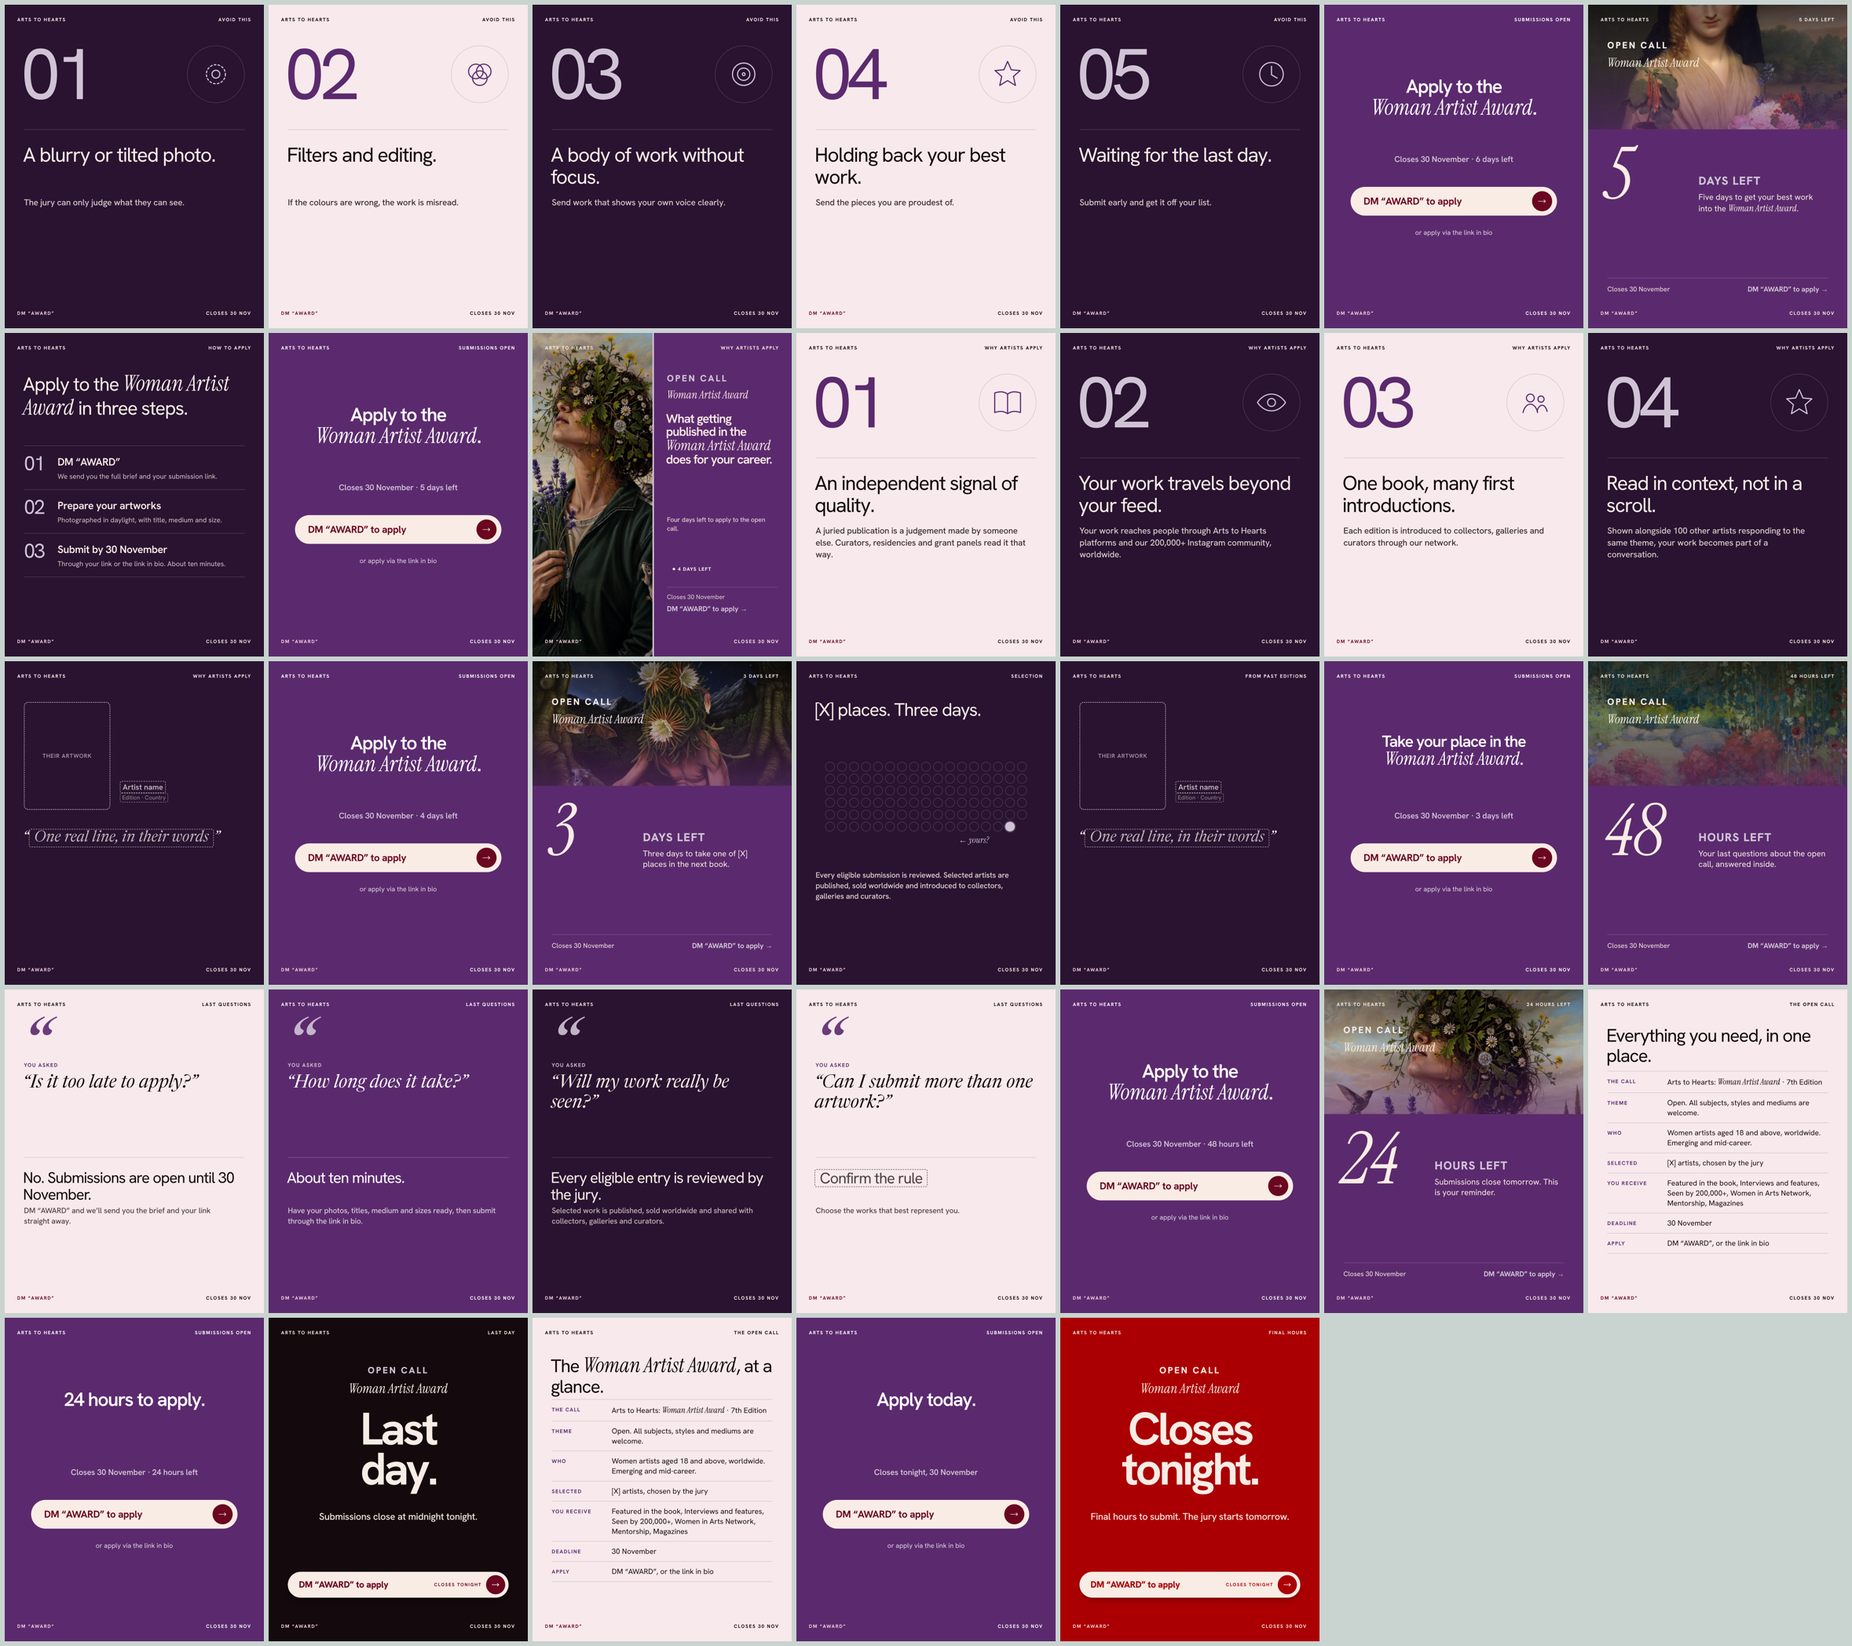
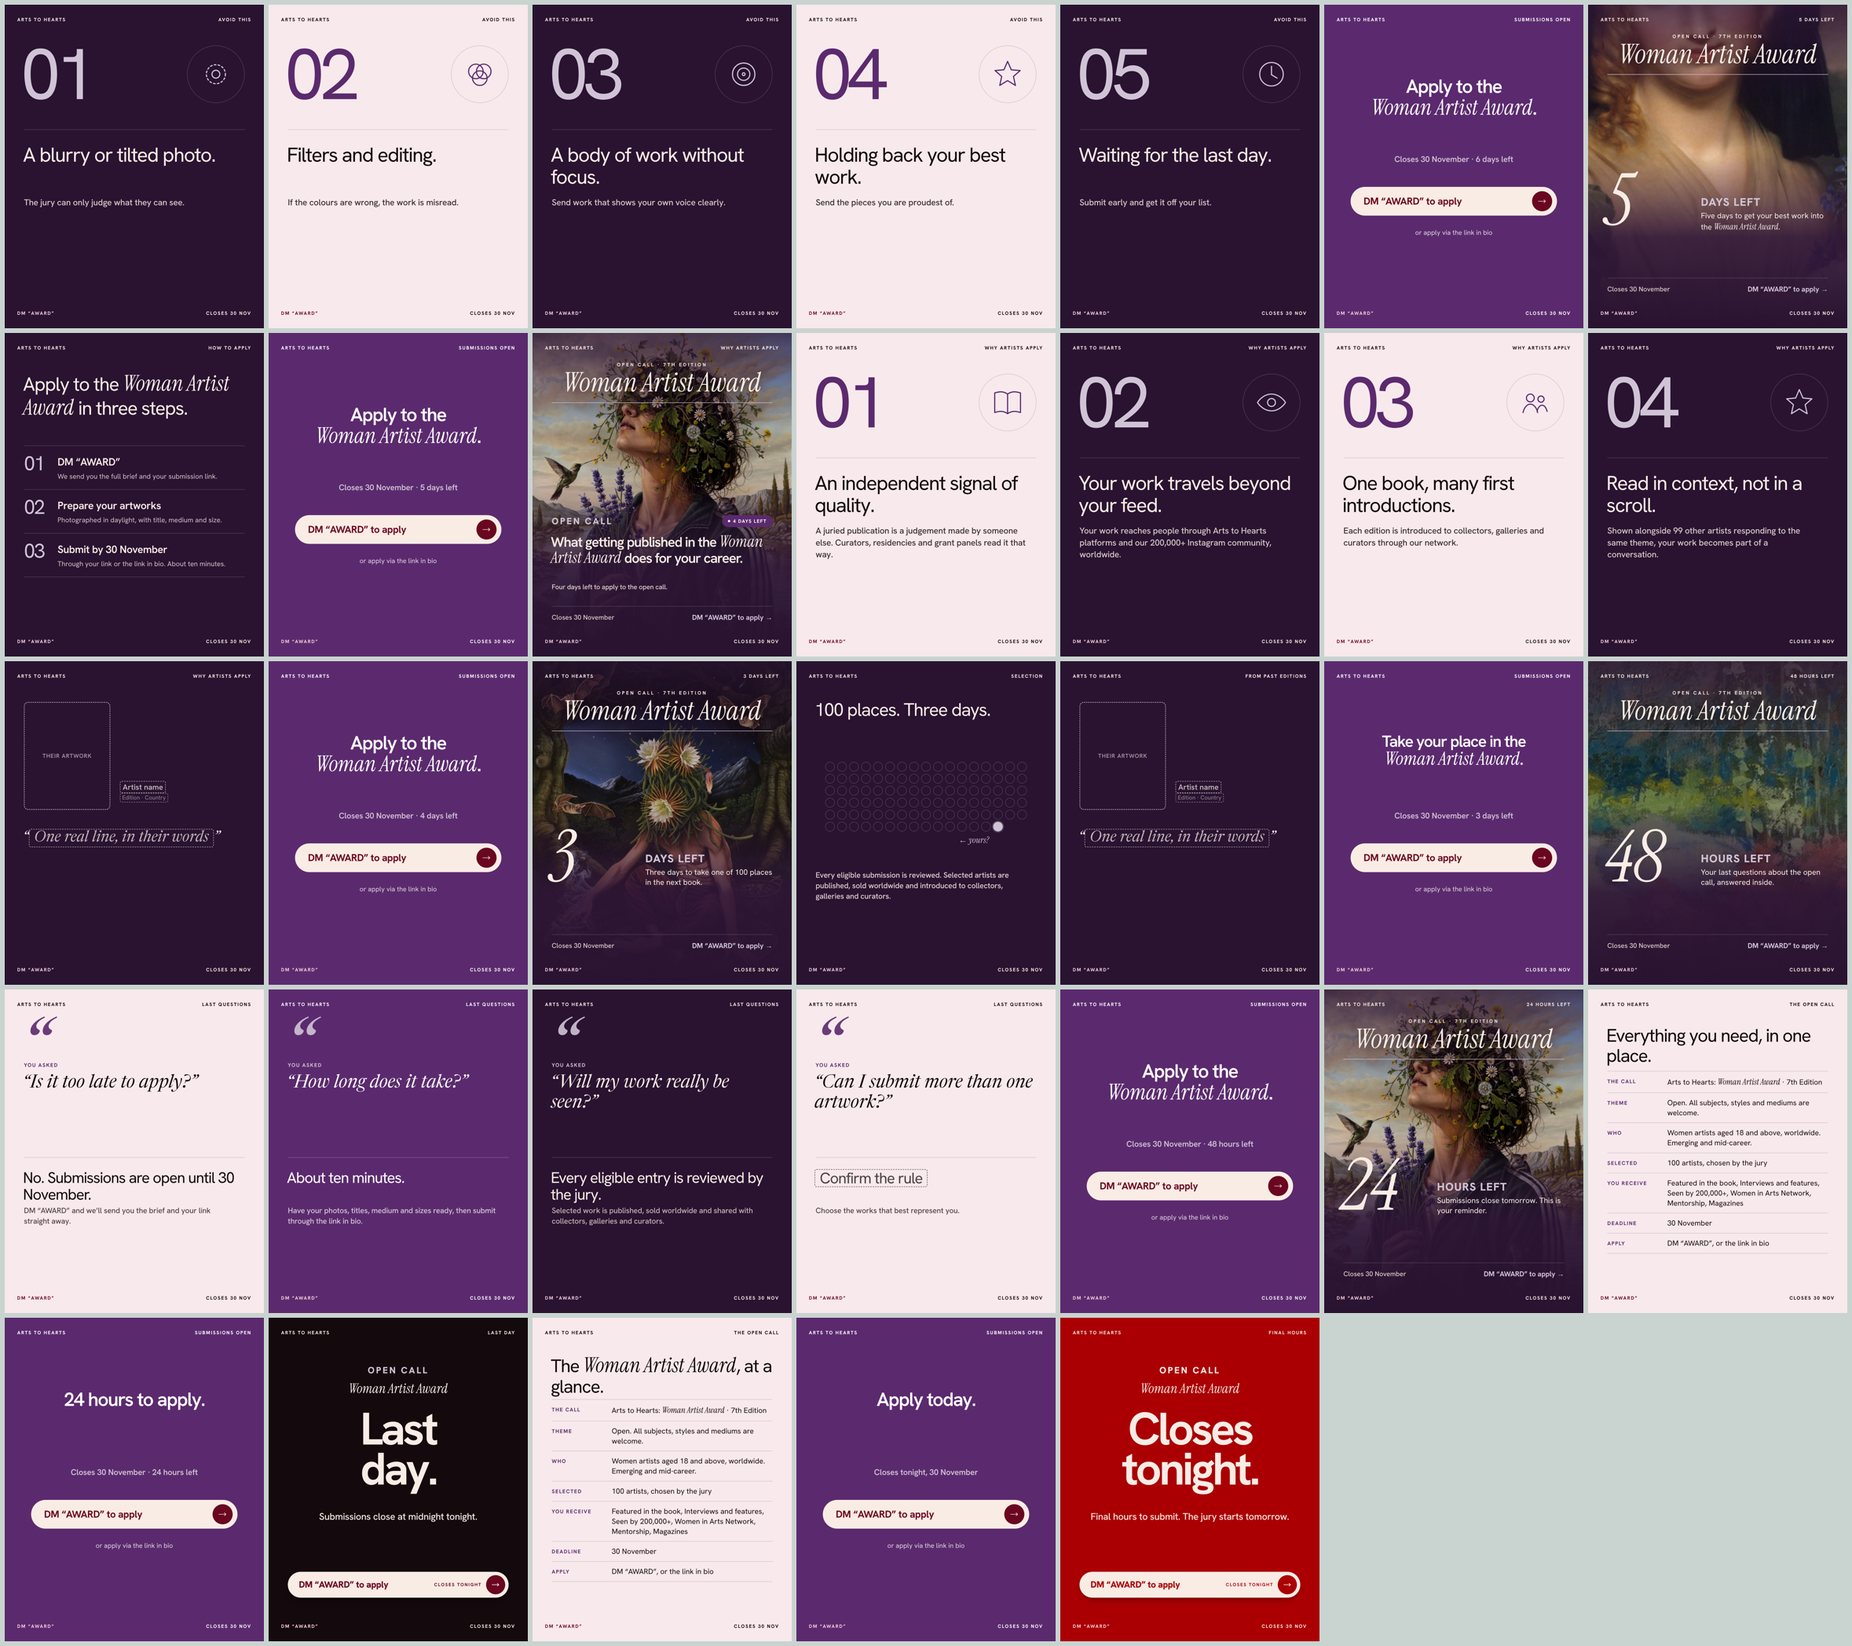
Woman Artist Award: full-image magazine covers and countdowns, 100 selected artists
Claude-Session: https://claude.ai/code/session_01Bc4gkdxg6i3YRuybqzVB3k

Changed region(s): [[0.712, 0.4031, 1.0, 0.8063], [0.2786, 0.1861, 0.5263, 0.6202], [0.8359, 0.0, 1.0, 0.2171]]

diff --git a/design/campaigns/open-calls/month.js b/design/campaigns/open-calls/month.js
@@ -329,32 +329,32 @@ const G1 = {...G};
 G.cream = () => isEd() ? ({bg:ED_PAPER, fg:INK, acc:state.colour, dm:BURG, line:'rgba(20,9,12,.16)'}) : G1.cream();
 G.ink   = () => isEd() ? ({bg:mix(state.colour, '#000000', .55), fg:CREAM, acc:tint(state.colour), dm:PEONY, line:'rgba(249,236,229,.2)'}) : G1.ink();
 const ED = {
+  // magazine cover: full-bleed portrait, masthead across the top, cover lines at the bottom
+  mast(){ const acc = tint(state.colour);
+    return `<p class="a c cn" style="left:0;right:0;top:118px;color:${CREAM};font-size:20px;letter-spacing:.3em">Open call · ${esc(state.editionLabel || '')}</p>
+      <p class="a c scr" style="left:40px;right:40px;top:150px;font-size:${String(state.name).length > 18 ? 96 : 112}px;line-height:1;white-space:nowrap;color:${CREAM};text-shadow:0 4px 30px rgba(0,0,0,.35)">${esc(state.name)}</p>
+      <div class="a" style="left:80px;right:80px;top:290px;border-top:2px solid ${acc}"></div>`; },
+  shade(){ return `<div class="a" style="inset:0;background:linear-gradient(180deg,${rgba(mix(state.colour,'#000000',.5),.75)} 0%,rgba(0,0,0,.05) 30%,rgba(0,0,0,0) 45%,${rgba(mix(state.colour,'#000000',.5),.9)} 72%,${mix(state.colour,'#000000',.55)} 100%)"></div>`; },
   hook(o){ const acc = tint(state.colour);
-    return {bg:state.colour, html:`${imgDiv(o.img || o.art || ART[0], 'left:0;top:0;bottom:0;width:500px', o.pos || o.artPos || 'center 25%')}
-      <div class="a" style="left:500px;top:0;bottom:0;width:6px;background:${acc}"></div>
-      ${corners(CREAM, PEONY, o.tr)}
-      <div class="a" style="left:560px;right:60px;top:170px">${OPENCALL(acc)}</div>
-      <p class="a scr" style="left:560px;right:60px;top:224px;font-size:46px;color:${CREAM}">${esc(state.name)}</p>
-      <p class="a H" style="left:556px;right:60px;top:330px;font-size:${Math.round((o.size||80)*.72)}px;line-height:1.04;color:${CREAM}">${o.head}</p>
-      ${o.sub ? `<p class="a sub" style="left:560px;right:60px;top:${o.subTop||760}px;font-size:27px;color:${CREAM};opacity:.85">${o.sub}</p>` : ''}
-      <div class="a" style="left:560px;top:960px">${timer(false)}</div>
-      <div class="a" style="left:560px;right:60px;top:1060px;padding-top:22px;border-top:1.5px solid rgba(255,255,255,.35)">
-        <p style="font-size:26px;color:${CREAM};opacity:.85">Closes ${dateLong()}</p>
-        <p style="font-size:30px;font-weight:700;letter-spacing:-.01em;color:${acc};margin-top:8px">${VERB} “${KW()}” to apply&nbsp;&rarr;</p></div>`};
+    return {bg:INK, html:`${imgDiv(o.img || o.art || ART[0], 'inset:0', o.pos || o.artPos || 'center 22%')}${ED.shade()}
+      ${corners(CREAM, PEONY, o.tr)}${ED.mast()}
+      <div class="a" style="left:80px;right:80px;top:${o.top || 760}px;display:flex;justify-content:space-between;align-items:center">${OPENCALL(acc)}${timer(false)}</div>
+      <p class="a H" style="left:76px;right:80px;top:${(o.top || 760) + 76}px;font-size:${Math.round((o.size||80)*.8)}px;color:${CREAM}">${o.head}</p>
+      ${o.sub ? `<p class="a sub" style="left:80px;right:150px;top:${o.subTop || 1040}px;font-size:28px;color:${CREAM};opacity:.9">${o.sub}</p>` : ''}
+      ${coverCTA(1140, CREAM, acc)}`};
   },
-  count(o){ const acc = tint(state.colour); const chilli = o.tone === 'chilli'; const bg = chilli ? '#AA0003' : state.colour;
+  count(o){ const acc = tint(state.colour); const chilli = o.tone === 'chilli';
     const big = String(o.big), size = big.length <= 2 ? 300 : big.length <= 8 ? 140 : 110;
-    return {bg, html:`${imgDiv(o.img || ART[0], 'left:0;right:0;top:0;height:520px', o.pos || 'center 25%')}
-      <div class="a" style="left:0;right:0;top:0;height:520px;background:linear-gradient(180deg,rgba(0,0,0,.45),rgba(0,0,0,0) 45%,${rgba(bg,.6)})"></div>
-      ${corners(CREAM, PEONY, o.tr || leftLabel())}
-      <div class="a" style="left:80px;top:150px">${OPENCALL(CREAM)}</div>
-      <p class="a scr" style="left:80px;top:204px;font-size:52px;color:${CREAM}">${esc(state.name)}</p>
-      <p class="a scr" style="left:70px;top:${big.length <= 2 ? 580 : 600}px;font-size:${size}px;line-height:.85;color:${CREAM}">${big}</p>
-      <p class="a" style="left:${big.length <= 2 ? 460 : 80}px;top:${big.length <= 2 ? 700 : 760}px;font-size:48px;font-weight:800;letter-spacing:.06em;text-transform:uppercase;color:${chilli ? CREAM : acc}">${esc(o.unit)}</p>
-      <p class="a" style="left:${big.length <= 2 ? 460 : 80}px;right:80px;top:${big.length <= 2 ? 780 : 840}px;font-size:34px;line-height:1.3;color:${CREAM}">${o.info || `to be published in ${esc(state.bookName || 'the book')}.`}</p>
+    return {bg:INK, html:`${imgDiv(o.img || ART[0], 'inset:0', o.pos || 'center 22%')}${ED.shade()}
+      ${chilli ? '<div class="a" style="inset:0;background:rgba(170,0,3,.55)"></div>' : ''}
+      ${corners(CREAM, PEONY, o.tr || leftLabel())}${ED.mast()}
+      <p class="a scr" style="left:70px;top:${big.length <= 2 ? 690 : 760}px;font-size:${size}px;line-height:.85;color:${CREAM}">${big}</p>
+      <p class="a" style="left:${big.length <= 2 ? 470 : 80}px;top:${big.length <= 2 ? 790 : 900}px;font-size:46px;font-weight:800;letter-spacing:.06em;text-transform:uppercase;color:${chilli ? CREAM : acc}">${esc(o.unit)}</p>
+      <p class="a" style="left:${big.length <= 2 ? 470 : 80}px;right:80px;top:${big.length <= 2 ? 860 : 970}px;font-size:32px;line-height:1.3;color:${CREAM}">${o.info || `to be published in ${esc(state.bookName || 'the book')}.`}</p>
       ${coverCTA(1140, CREAM, chilli ? CREAM : acc)}`};
   },
 };
+
 const T0 = {...T};
 T.hook = o => isAward() ? AW.hook(o) : isEd() ? ED.hook(o) : T0.hook(o);
 T.count = o => isAward() ? AW.count(o) : isEd() ? ED.count(o) : T0.count(o);
@@ -447,7 +447,7 @@ const closeLn = () => `Submissions close ${dl().getDate()} ${MONTHS_L[dl().getMo
 const N = () => state.name, S = () => state.series, SEL = () => state.selected;
 
 function monthPosts(){ const name = GE(), sel = esc(state.selected); return [
- {left:30, title:'Launch', kind:'Carousel', slides:() => { const s = launch(); if (isAward() || isEd()) s[0] = {...(isEd() ? ED : AW).hook({img:state.images.imgCover, tr:esc(state.series), head:`${esc(state.headline || 'Call for artists')}<br>${GE()}`, size:(isEd() ? 82 : 120), subTop:(isEd() ? 820 : undefined), sub:esc(state.coverLine)}), title:'cover'}; return s; }, caption:() => caption(), pin:() => pinned()},
+ {left:30, title:'Launch', kind:'Carousel', slides:() => { const s = launch(); if (isAward() || isEd()) s[0] = {...(isEd() ? ED : AW).hook({img:state.images.imgCover, tr:esc(state.series), head: isEd() ? esc(state.headline || 'Call for artists') : `${esc(state.headline || 'Call for artists')}<br>${GE()}`, size: isEd() ? 112 : 120, sub:esc(state.coverLine)}), title:'cover'}; return s; }, caption:() => caption(), pin:() => pinned()},
 
  {left:28, title:'What you can submit', kind:'Carousel · theme', slides:() => [
    T.hook({img:EX.bloom, tr:'The theme', head:`What can you submit to the ${name}?`, sub:`Five kinds of ${TW()} the jury wants to see. ${sel} will be published.`}),

diff --git a/site/post-studio/month.js b/site/post-studio/month.js
@@ -329,32 +329,32 @@ const G1 = {...G};
 G.cream = () => isEd() ? ({bg:ED_PAPER, fg:INK, acc:state.colour, dm:BURG, line:'rgba(20,9,12,.16)'}) : G1.cream();
 G.ink   = () => isEd() ? ({bg:mix(state.colour, '#000000', .55), fg:CREAM, acc:tint(state.colour), dm:PEONY, line:'rgba(249,236,229,.2)'}) : G1.ink();
 const ED = {
+  // magazine cover: full-bleed portrait, masthead across the top, cover lines at the bottom
+  mast(){ const acc = tint(state.colour);
+    return `<p class="a c cn" style="left:0;right:0;top:118px;color:${CREAM};font-size:20px;letter-spacing:.3em">Open call · ${esc(state.editionLabel || '')}</p>
+      <p class="a c scr" style="left:40px;right:40px;top:150px;font-size:${String(state.name).length > 18 ? 96 : 112}px;line-height:1;white-space:nowrap;color:${CREAM};text-shadow:0 4px 30px rgba(0,0,0,.35)">${esc(state.name)}</p>
+      <div class="a" style="left:80px;right:80px;top:290px;border-top:2px solid ${acc}"></div>`; },
+  shade(){ return `<div class="a" style="inset:0;background:linear-gradient(180deg,${rgba(mix(state.colour,'#000000',.5),.75)} 0%,rgba(0,0,0,.05) 30%,rgba(0,0,0,0) 45%,${rgba(mix(state.colour,'#000000',.5),.9)} 72%,${mix(state.colour,'#000000',.55)} 100%)"></div>`; },
   hook(o){ const acc = tint(state.colour);
-    return {bg:state.colour, html:`${imgDiv(o.img || o.art || ART[0], 'left:0;top:0;bottom:0;width:500px', o.pos || o.artPos || 'center 25%')}
-      <div class="a" style="left:500px;top:0;bottom:0;width:6px;background:${acc}"></div>
-      ${corners(CREAM, PEONY, o.tr)}
-      <div class="a" style="left:560px;right:60px;top:170px">${OPENCALL(acc)}</div>
-      <p class="a scr" style="left:560px;right:60px;top:224px;font-size:46px;color:${CREAM}">${esc(state.name)}</p>
-      <p class="a H" style="left:556px;right:60px;top:330px;font-size:${Math.round((o.size||80)*.72)}px;line-height:1.04;color:${CREAM}">${o.head}</p>
-      ${o.sub ? `<p class="a sub" style="left:560px;right:60px;top:${o.subTop||760}px;font-size:27px;color:${CREAM};opacity:.85">${o.sub}</p>` : ''}
-      <div class="a" style="left:560px;top:960px">${timer(false)}</div>
-      <div class="a" style="left:560px;right:60px;top:1060px;padding-top:22px;border-top:1.5px solid rgba(255,255,255,.35)">
-        <p style="font-size:26px;color:${CREAM};opacity:.85">Closes ${dateLong()}</p>
-        <p style="font-size:30px;font-weight:700;letter-spacing:-.01em;color:${acc};margin-top:8px">${VERB} “${KW()}” to apply&nbsp;&rarr;</p></div>`};
+    return {bg:INK, html:`${imgDiv(o.img || o.art || ART[0], 'inset:0', o.pos || o.artPos || 'center 22%')}${ED.shade()}
+      ${corners(CREAM, PEONY, o.tr)}${ED.mast()}
+      <div class="a" style="left:80px;right:80px;top:${o.top || 760}px;display:flex;justify-content:space-between;align-items:center">${OPENCALL(acc)}${timer(false)}</div>
+      <p class="a H" style="left:76px;right:80px;top:${(o.top || 760) + 76}px;font-size:${Math.round((o.size||80)*.8)}px;color:${CREAM}">${o.head}</p>
+      ${o.sub ? `<p class="a sub" style="left:80px;right:150px;top:${o.subTop || 1040}px;font-size:28px;color:${CREAM};opacity:.9">${o.sub}</p>` : ''}
+      ${coverCTA(1140, CREAM, acc)}`};
   },
-  count(o){ const acc = tint(state.colour); const chilli = o.tone === 'chilli'; const bg = chilli ? '#AA0003' : state.colour;
+  count(o){ const acc = tint(state.colour); const chilli = o.tone === 'chilli';
     const big = String(o.big), size = big.length <= 2 ? 300 : big.length <= 8 ? 140 : 110;
-    return {bg, html:`${imgDiv(o.img || ART[0], 'left:0;right:0;top:0;height:520px', o.pos || 'center 25%')}
-      <div class="a" style="left:0;right:0;top:0;height:520px;background:linear-gradient(180deg,rgba(0,0,0,.45),rgba(0,0,0,0) 45%,${rgba(bg,.6)})"></div>
-      ${corners(CREAM, PEONY, o.tr || leftLabel())}
-      <div class="a" style="left:80px;top:150px">${OPENCALL(CREAM)}</div>
-      <p class="a scr" style="left:80px;top:204px;font-size:52px;color:${CREAM}">${esc(state.name)}</p>
-      <p class="a scr" style="left:70px;top:${big.length <= 2 ? 580 : 600}px;font-size:${size}px;line-height:.85;color:${CREAM}">${big}</p>
-      <p class="a" style="left:${big.length <= 2 ? 460 : 80}px;top:${big.length <= 2 ? 700 : 760}px;font-size:48px;font-weight:800;letter-spacing:.06em;text-transform:uppercase;color:${chilli ? CREAM : acc}">${esc(o.unit)}</p>
-      <p class="a" style="left:${big.length <= 2 ? 460 : 80}px;right:80px;top:${big.length <= 2 ? 780 : 840}px;font-size:34px;line-height:1.3;color:${CREAM}">${o.info || `to be published in ${esc(state.bookName || 'the book')}.`}</p>
+    return {bg:INK, html:`${imgDiv(o.img || ART[0], 'inset:0', o.pos || 'center 22%')}${ED.shade()}
+      ${chilli ? '<div class="a" style="inset:0;background:rgba(170,0,3,.55)"></div>' : ''}
+      ${corners(CREAM, PEONY, o.tr || leftLabel())}${ED.mast()}
+      <p class="a scr" style="left:70px;top:${big.length <= 2 ? 690 : 760}px;font-size:${size}px;line-height:.85;color:${CREAM}">${big}</p>
+      <p class="a" style="left:${big.length <= 2 ? 470 : 80}px;top:${big.length <= 2 ? 790 : 900}px;font-size:46px;font-weight:800;letter-spacing:.06em;text-transform:uppercase;color:${chilli ? CREAM : acc}">${esc(o.unit)}</p>
+      <p class="a" style="left:${big.length <= 2 ? 470 : 80}px;right:80px;top:${big.length <= 2 ? 860 : 970}px;font-size:32px;line-height:1.3;color:${CREAM}">${o.info || `to be published in ${esc(state.bookName || 'the book')}.`}</p>
       ${coverCTA(1140, CREAM, chilli ? CREAM : acc)}`};
   },
 };
+
 const T0 = {...T};
 T.hook = o => isAward() ? AW.hook(o) : isEd() ? ED.hook(o) : T0.hook(o);
 T.count = o => isAward() ? AW.count(o) : isEd() ? ED.count(o) : T0.count(o);
@@ -447,7 +447,7 @@ const closeLn = () => `Submissions close ${dl().getDate()} ${MONTHS_L[dl().getMo
 const N = () => state.name, S = () => state.series, SEL = () => state.selected;
 
 function monthPosts(){ const name = GE(), sel = esc(state.selected); return [
- {left:30, title:'Launch', kind:'Carousel', slides:() => { const s = launch(); if (isAward() || isEd()) s[0] = {...(isEd() ? ED : AW).hook({img:state.images.imgCover, tr:esc(state.series), head:`${esc(state.headline || 'Call for artists')}<br>${GE()}`, size:(isEd() ? 82 : 120), subTop:(isEd() ? 820 : undefined), sub:esc(state.coverLine)}), title:'cover'}; return s; }, caption:() => caption(), pin:() => pinned()},
+ {left:30, title:'Launch', kind:'Carousel', slides:() => { const s = launch(); if (isAward() || isEd()) s[0] = {...(isEd() ? ED : AW).hook({img:state.images.imgCover, tr:esc(state.series), head: isEd() ? esc(state.headline || 'Call for artists') : `${esc(state.headline || 'Call for artists')}<br>${GE()}`, size: isEd() ? 112 : 120, sub:esc(state.coverLine)}), title:'cover'}; return s; }, caption:() => caption(), pin:() => pinned()},
 
  {left:28, title:'What you can submit', kind:'Carousel · theme', slides:() => [
    T.hook({img:EX.bloom, tr:'The theme', head:`What can you submit to the ${name}?`, sub:`Five kinds of ${TW()} the jury wants to see. ${sel} will be published.`}),

diff --git a/design/campaigns/open-calls/post-studio.html b/design/campaigns/open-calls/post-studio.html
@@ -238,7 +238,7 @@ const PRESETS = {
     commentFrom:'2026-12-08', images:{imgCover:'art/flower-portrait.jpg', imgTheme:'art/ref-palms.jpg'},
   },
   'Woman Artist Award 2026': {
-    style:'editorial', series:'Arts to Hearts', edition:'7th', editionLabel:'7th Edition', name:'Woman Artist Award', keyword:'AWARD', deadline:'2026-11-30', selected:'[X]',
+    style:'editorial', series:'Arts to Hearts', edition:'7th', editionLabel:'7th Edition', name:'Woman Artist Award', keyword:'AWARD', deadline:'2026-11-30', selected:'100',
     headline:'Calling all women artists', coverLine:'Selected artists are featured in Women Artists on the Rise, Edition 5.', colour:'#5B2A6E',
     editions:'35+', seriesNoun:'books', published:'10,000+',
     quote:'Your work deserves to be seen, recognized, and celebrated.',

diff --git a/site/post-studio/index.html b/site/post-studio/index.html
@@ -241,7 +241,7 @@ const PRESETS = {
     commentFrom:'2026-12-08', images:{imgCover:'art/flower-portrait.jpg', imgTheme:'art/ref-palms.jpg'},
   },
   'Woman Artist Award 2026': {
-    style:'editorial', series:'Arts to Hearts', edition:'7th', editionLabel:'7th Edition', name:'Woman Artist Award', keyword:'AWARD', deadline:'2026-11-30', selected:'[X]',
+    style:'editorial', series:'Arts to Hearts', edition:'7th', editionLabel:'7th Edition', name:'Woman Artist Award', keyword:'AWARD', deadline:'2026-11-30', selected:'100',
     headline:'Calling all women artists', coverLine:'Selected artists are featured in Women Artists on the Rise, Edition 5.', colour:'#5B2A6E',
     editions:'35+', seriesNoun:'books', published:'10,000+',
     quote:'Your work deserves to be seen, recognized, and celebrated.',
